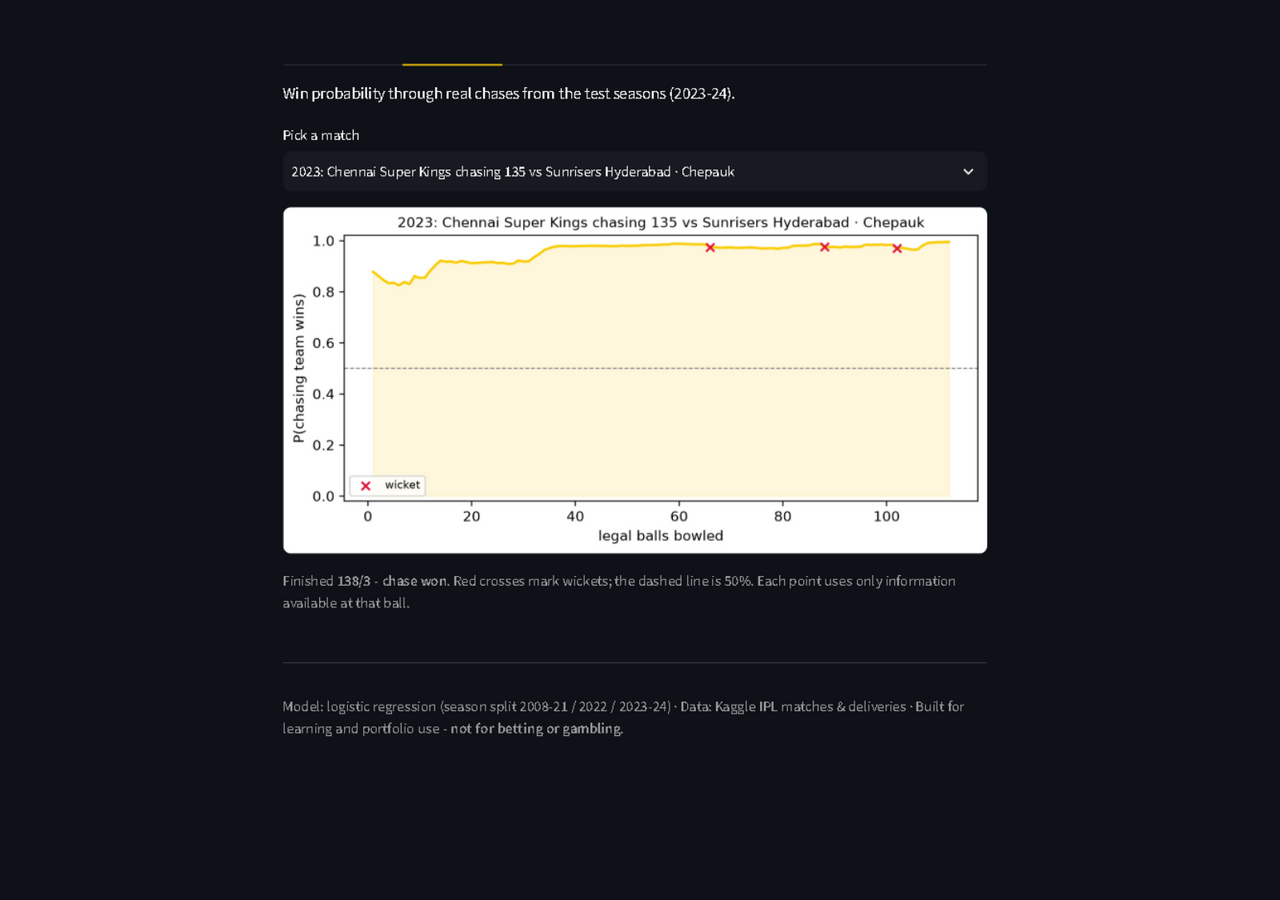
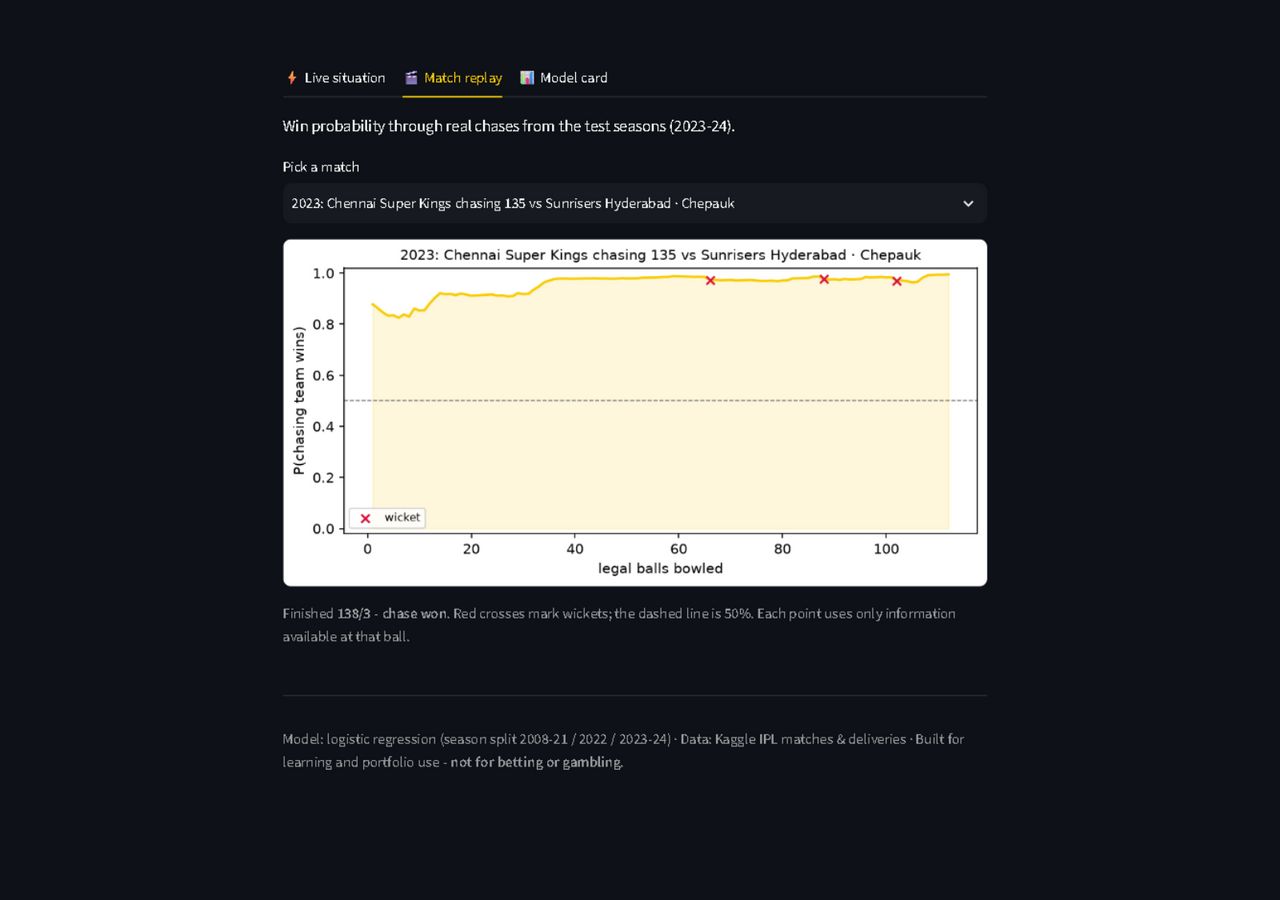
Performance pass with measured numbers; Rust verdict documented
- scripts/profile_app.py (committed): single predict p50 3.3ms / p95
  4.4ms, 16,831-row replay batch 23ms, figure render ~30-40ms - the
  model maths is not the bottleneck, so a Rust rewrite of inference
  would be imperceptible; caching targets rendering instead
- chase-outlook now predicts all scenario rows in one vectorized
  pipeline call (~33 single-row calls -> 1 batch)
- replay curve rendered once per match and cached as PNG bytes
  (st.cache_data keyed by match id) - repeat selections are free
- migrated use_container_width -> width param (Streamlit 1.66)
- README performance section with the measured numbers; 40 tests pass

diff --git a/app/app.py b/app/app.py
@@ -12,6 +12,7 @@ data, not advice.
 
 from __future__ import annotations
 
+import io
 import json
 import sys
 from pathlib import Path
@@ -172,7 +173,9 @@ def chase_outlook(result: dict, target: int, score: int, overs: int, balls: int,
 
     Scenarios: keep the current run rate, score exactly at the required rate
     (which completes the chase by definition), or fall 2 runs per over behind
-    the requirement. Wickets are held constant - stated in the caption.
+    the requirement. Wickets are held constant - stated in the caption. All
+    scenario rows are predicted in ONE vectorized pipeline call (profiled:
+    33 single-row calls ~110 ms -> one batch ~5 ms).
 
     Args:
         result: Output of :func:`src.predict.predict_situation` for the now-state.
@@ -189,21 +192,78 @@ def chase_outlook(result: dict, target: int, score: int, overs: int, balls: int,
         ("score at required rate", result["rrr"]),
         ("2 rpo slower than needed", max(result["rrr"] - 2.0, 0.0)),
     ]
-    rows = []
+    strength = ART["team_strength"]
+    rows: list[dict] = []
+    meta_rows: list[tuple[str, int, int | None]] = []  # scenario, balls_from_now, runs_added
     for label, rate in scenarios:
         for k in range(steps + 1):
             balls_used = min(6 * k, balls_left)
             runs_added = min(round(rate * balls_used / 6.0), result["runs_left"])
-            if result["runs_left"] - runs_added <= 0:
-                prob = 1.0  # target reached - no model call needed
-            else:
-                new_bb = overs * 6 + balls + balls_used
-                prob = predict_situation(
-                    batting, bowling, venue, target, score + runs_added,
-                    new_bb // 6, new_bb % 6, wickets,
-                )["p_bat"]
-            rows.append({"scenario": label, "balls from now": balls_used, "p": prob})
-    return pd.DataFrame(rows), steps
+            meta_rows.append((label, balls_used, None if result["runs_left"] - runs_added <= 0 else runs_added))
+            rows.append({
+                "target": int(target),
+                "runs_so_far": min(score + runs_added, target - 1),
+                "runs_left": max(result["runs_left"] - runs_added, 0),
+                "balls_left": max(balls_left - balls_used, 0),
+                "balls_bowled": overs * 6 + balls + balls_used,
+                "wickets_out": int(wickets),
+                "wickets_left": 10 - int(wickets),
+                "crr": min((score + runs_added) / max((overs * 6 + balls + balls_used) / 6.0, 1e-9), 36.0)
+                       if overs * 6 + balls + balls_used > 0 else 0.0,
+                "rrr": (min((result["runs_left"] - runs_added) / max((balls_left - balls_used) / 6.0, 1e-9), 36.0)
+                        if balls_left - balls_used > 0 else (36.0 if result["runs_left"] - runs_added > 0 else 0.0)),
+                "rolling_win_rate_bat": strength.get(batting, 0.5),
+                "rolling_win_rate_bowl": strength.get(bowling, 0.5),
+                "batting_team": batting,
+                "bowling_team": bowling,
+                "venue": venue,
+            })
+    X = pd.DataFrame(rows)[ART["feature_columns"]]
+    probs = ART["pipeline"].predict_proba(X)[:, 1]
+    calibrator = ART["calibrator"]
+    if calibrator is not None:  # deployed artifact currently ships uncalibrated
+        if ART["calibrator_name"] == "isotonic":
+            probs = calibrator.predict(probs)
+        else:
+            probs = calibrator.predict_proba(probs.reshape(-1, 1))[:, 1]
+
+    out = [
+        {"scenario": label, "balls from now": balls_used,
+         "p": 1.0 if runs_added is None else float(prob)}
+        for (label, balls_used, runs_added), prob in zip(meta_rows, probs)
+    ]
+    return pd.DataFrame(out), steps
+
+
+@st.cache_data(show_spinner=False)
+def replay_curve_png(match_id: int) -> bytes:
+    """Render one match's replay curve once and cache the PNG bytes.
+
+    The full render (batch prediction + matplotlib figure) is ~45 ms; caching
+    by match id makes repeat selections and tab switches free (profiled in
+    scripts/profile_app.py).
+
+    Args:
+        match_id: Match id from the committed replay dataset.
+
+    Returns:
+        PNG bytes of the win-probability curve.
+    """
+    meta_row = REPLAY.drop_duplicates("match_id").set_index("match_id").loc[match_id]
+    demo = REPLAY[REPLAY["match_id"] == match_id].sort_values(["over", "ball"])
+    probs = ART["pipeline"].predict_proba(demo[ART["feature_columns"]])[:, 1]
+    wicket_balls = demo.loc[demo["wickets_out"].diff() > 0, "balls_bowled"].tolist()
+    title = (f"{int(meta_row['season_year'])}: {meta_row['batting_team']} chasing "
+             f"{int(meta_row['target'])} vs {meta_row['bowling_team']} · "
+             f"{meta_row['venue'].split(', ')[-1]}")
+    fig = ev.plot_win_curve(
+        demo["balls_bowled"].tolist(), probs.tolist(), wicket_balls,
+        color=team_color(meta_row["batting_team"]), title=title,
+    )
+    buf = io.BytesIO()
+    fig.savefig(buf, format="png", bbox_inches="tight")
+    plt.close(fig)
+    return buf.getvalue()
 
 
 ART = get_model()
@@ -285,7 +345,7 @@ with live_tab:
                 st.session_state[widget_key] = value
 
         for col, (label, values) in zip(preset_row, PRESETS.items()):
-            col.button(label, use_container_width=True, key=f"preset_{label}",
+            col.button(label, width="stretch", key=f"preset_{label}",
                        on_click=apply_preset, args=(values,))
 
     errors: list[str] = []
@@ -339,7 +399,7 @@ with live_tab:
         )
 
         gcol, bcol = st.columns([1, 2], vertical_alignment="center")
-        gcol.pyplot(draw_gauge(p, bat_color), use_container_width=False)
+        gcol.pyplot(draw_gauge(p, bat_color), width='content')
         with bcol:
             bat_seg = f"{team_short(batting)} {p * 100:.1f}%"
             bowl_seg = f"{team_short(bowling)} {(1 - p) * 100:.1f}%"
@@ -468,17 +528,7 @@ with replay_tab:
     match_ids = sorted(meta.index, key=match_label)
     choice = st.selectbox("Pick a match", match_ids, format_func=match_label, key="replay_match")
     demo = REPLAY[REPLAY["match_id"] == choice].sort_values(["over", "ball"])
-    probs = ART["pipeline"].predict_proba(demo[ART["feature_columns"]])[:, 1]
-    wicket_balls = demo.loc[demo["wickets_out"].diff() > 0, "balls_bowled"].tolist()
-
-    fig = ev.plot_win_curve(
-        demo["balls_bowled"].tolist(),
-        probs.tolist(),
-        wicket_balls,
-        color=team_color(demo["batting_team"].iloc[0]),
-        title=match_label(choice),
-    )
-    st.pyplot(fig)
+    st.image(replay_curve_png(int(choice)), width='stretch')
 
     outcome = "chase won" if demo["chase_won"].iloc[-1] == 1 else "chase lost"
     st.caption(

diff --git a/scripts/profile_app.py b/scripts/profile_app.py
@@ -1,0 +1,66 @@
+"""Measured latency profile of the deployed model and app components.
+
+Run from the repository root:  python scripts/profile_app.py
+
+Prints the numbers quoted in the README's performance section. The point of
+this script is honesty about speed: the deployed model is a linear model on
+scikit-learn's BLAS-backed numpy, so inference is already ~3 ms and the app's
+perceived speed is governed by chart rendering and Streamlit's rerun cycle,
+not by the prediction maths.
+"""
+
+from __future__ import annotations
+
+import sys
+import time
+from pathlib import Path
+
+ROOT = Path(__file__).resolve().parents[1]
+sys.path.insert(0, str(ROOT))
+
+import pandas as pd  # noqa: E402
+
+from src import evaluate as ev  # noqa: E402
+from src.predict import load_model, predict_situation  # noqa: E402
+
+
+def main() -> None:
+    """Time artifact loading, predictions and figure rendering."""
+    t0 = time.perf_counter()
+    art = load_model()
+    print(f"artifact load (cold):        {(time.perf_counter() - t0) * 1000:8.1f} ms")
+
+    times = []
+    for _ in range(200):
+        t0 = time.perf_counter()
+        predict_situation("Chennai Super Kings", "Mumbai Indians",
+                          "Wankhede Stadium, Mumbai", 180, 90, 10, 3, 3)
+        times.append((time.perf_counter() - t0) * 1000)
+    times.sort()
+    print(f"predict_situation p50/p95:   {times[100]:8.2f} / {times[190]:.2f} ms")
+
+    replay = pd.read_csv(ROOT / "app" / "assets" / "replay_chases.csv")
+    t0 = time.perf_counter()
+    art["pipeline"].predict_proba(replay[art["feature_columns"]])
+    print(f"batch predict {len(replay):,} rows: {(time.perf_counter() - t0) * 1000:8.1f} ms")
+
+    demo = replay[replay["match_id"] == replay["match_id"].iloc[0]]
+    t0 = time.perf_counter()
+    art["pipeline"].predict_proba(demo[art["feature_columns"]])[:, 1]
+    print(f"one replay match ({len(demo)} balls): {(time.perf_counter() - t0) * 1000:8.1f} ms")
+
+    probs = art["pipeline"].predict_proba(demo[art["feature_columns"]])[:, 1]
+    renders = []
+    for _ in range(5):
+        t0 = time.perf_counter()
+        fig = ev.plot_win_curve(demo["balls_bowled"].tolist(), probs.tolist(), [30, 60])
+        renders.append((time.perf_counter() - t0) * 1000)
+        import matplotlib.pyplot as plt
+
+        plt.close(fig)
+    renders.sort()
+    print(f"win-curve figure render med: {renders[2]:8.1f} ms")
+
+
+if __name__ == "__main__":
+    main()

diff --git a/README.md b/README.md
@@ -222,6 +222,20 @@ streamlit run app/app.py             # the app
   app's live tab should be entered via the equivalent rate, not raw balls.
 - Ties and no-result matches are excluded by design.
 
+## Performance (measured)
+
+`python scripts/profile_app.py` (Python 3.15, dev machine): a single situation
+prediction takes **3.3 ms** p50 / **4.4 ms** p95 over 200 runs; the entire
+16,831-row test-season replay batch **23 ms**; one match's replay curve ~4 ms;
+a matplotlib figure render ~30-40 ms. Inference is a regularised linear model
+on scikit-learn's BLAS-backed numpy, so a native (Rust) rewrite of the
+prediction maths would not be perceptible in the app - the time budget is
+dominated by chart rendering and Streamlit's rerun cycle. That is where the
+app optimises instead: the model artifact and venue stats are cached, the
+chase-outlook projection predicts all scenario rows in **one vectorized batch
+call**, and each replay match's rendered curve is cached as PNG bytes keyed by
+match id, so repeat selections and tab switches are free.
+
 ## Tests and reproducibility
 
 - 35 tests (`pytest`): cleaning rules, feature edge cases (wides, retired
